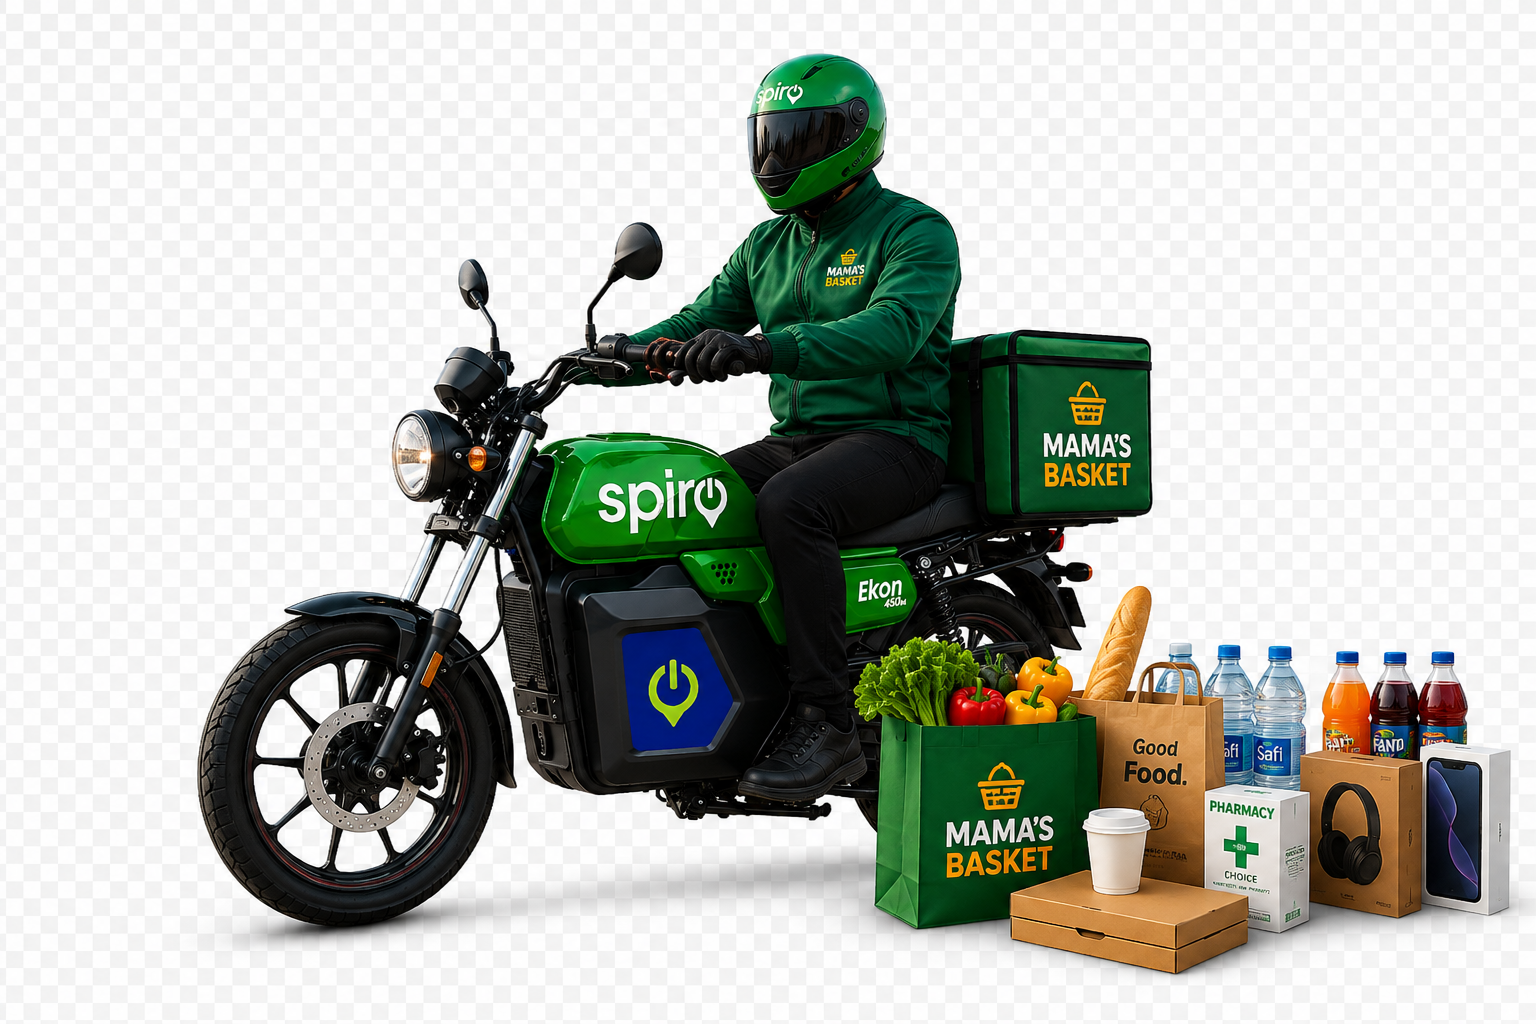
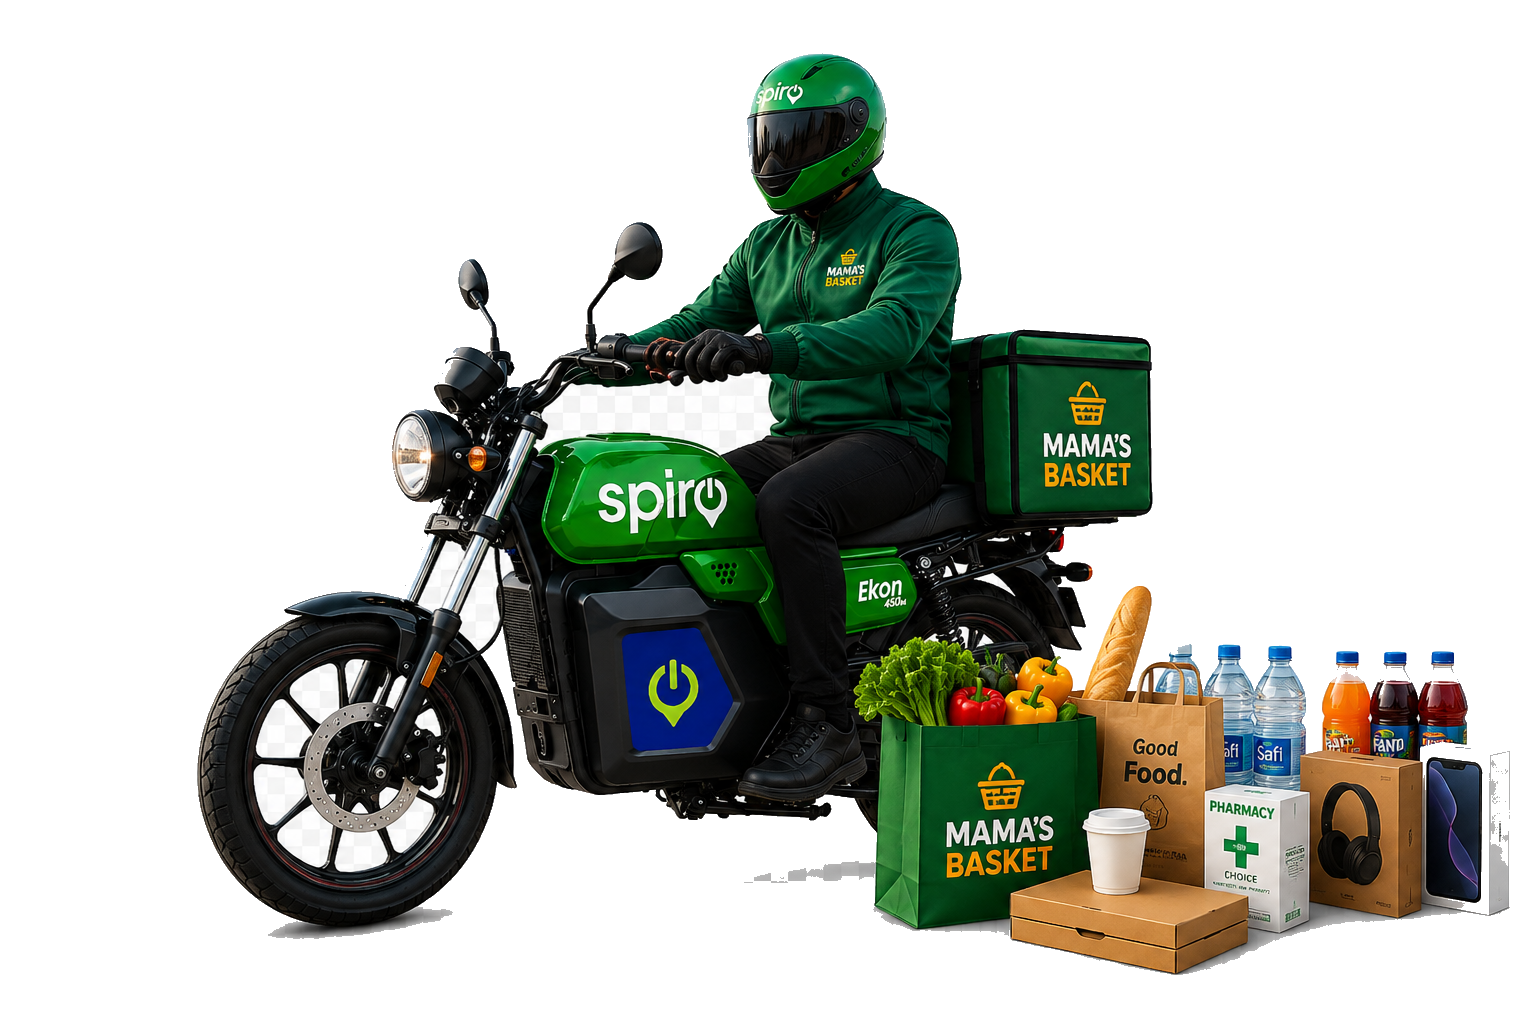
Fix hero: strip baked-in background from rider image, fix overlapping card layout

diff --git a/css/style.css b/css/style.css
@@ -692,9 +692,9 @@ table.data tr:hover td { background: var(--cream-2); }
 .hero-photo .container { position: relative; z-index: 3; }
 .hero-photo .hero-copy { max-width: 560px; }
 
-.hero-photo .float-card { z-index: 4; }
-.hero-photo .float-card.fc-track { top: 15%; right: 5%; animation: floaty 6s var(--ease) infinite; }
-.hero-photo .float-card.fc-fresh { bottom: 20%; right: 31%; animation: floaty 7s var(--ease) infinite .8s; }
+.hero-photo .float-card { z-index: 4; left: auto; right: auto; }
+.hero-photo .float-card.fc-track { top: 14%; right: 4%; left: auto; animation: floaty 6s var(--ease) infinite; }
+.hero-photo .float-card.fc-fresh { bottom: 8%; right: 5%; left: auto; animation: floaty 7s var(--ease) infinite .8s; }
 
 .hero-ecobar { position: relative; z-index: 3; background: var(--green-800); color: #fff; }
 .hero-ecobar .container { display: flex; justify-content: space-between; gap: 18px; flex-wrap: wrap; padding-block: 20px; }
